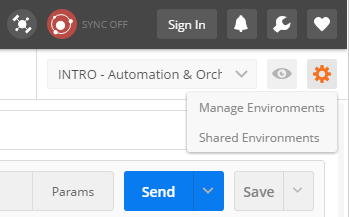
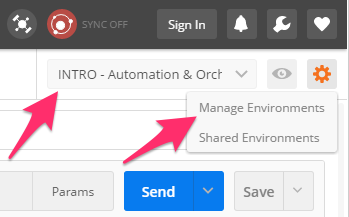
Added arrows to screenshot; Removed extra character

Changed region(s): [[0.3438, 0.5253, 0.5731, 0.7742], [0.0, 0.4147, 0.1719, 0.7465]]

diff --git a/1_Introduction/module3/lab5.rst b/1_Introduction/module3/lab5.rst
@@ -33,7 +33,7 @@ Task 2 – Run delete\_pool.py
 ~~~~~~~~~~~~~~~~~~~~~~~~~~~~
 
 1. In the command prompt type 
-   ``python delete\_pool.py 10.1.1.4 test_pool``
+   ``python delete_pool.py 10.1.1.4 test_pool``
    and examine the output:
    
    |image72|
